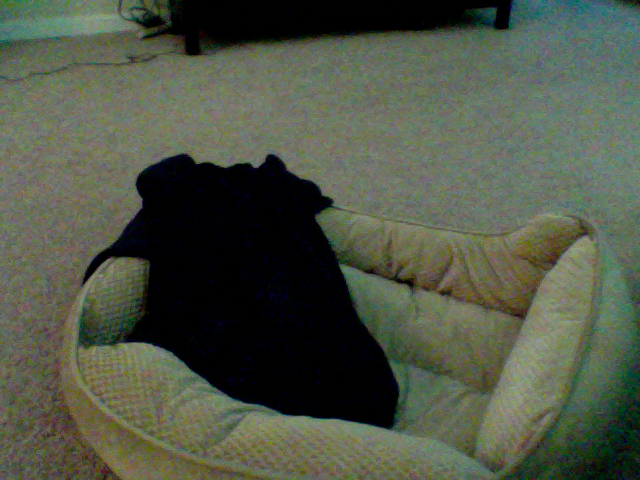
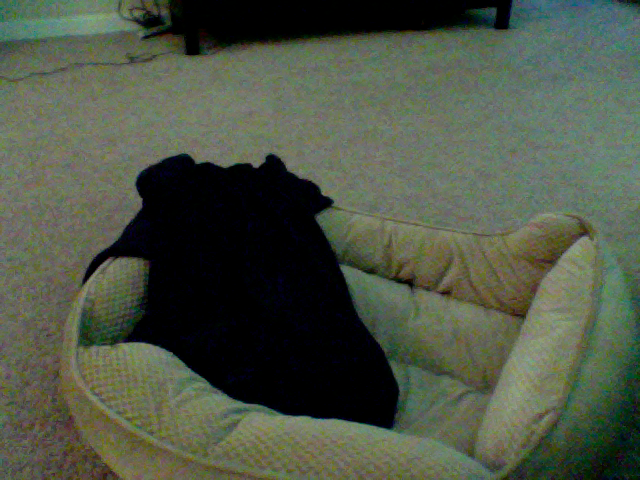
update at Month05Day12Time14:28

Changed region(s): [[0.0, 0.0, 1.0, 1.0], [0.5938, 0.25, 0.6875, 0.3438], [0.5625, 0.3125, 0.5938, 0.3438]]

diff --git a/index.html b/index.html
@@ -40,7 +40,7 @@
       <div class="row">
         <div class="col-md-4">
 	<p>This picture was updated at Month05Day12Time14:28</p>
-		<img src="8_pic.png" />
+		<img src="7_pic.png" />
         </div>
       </div>
 
